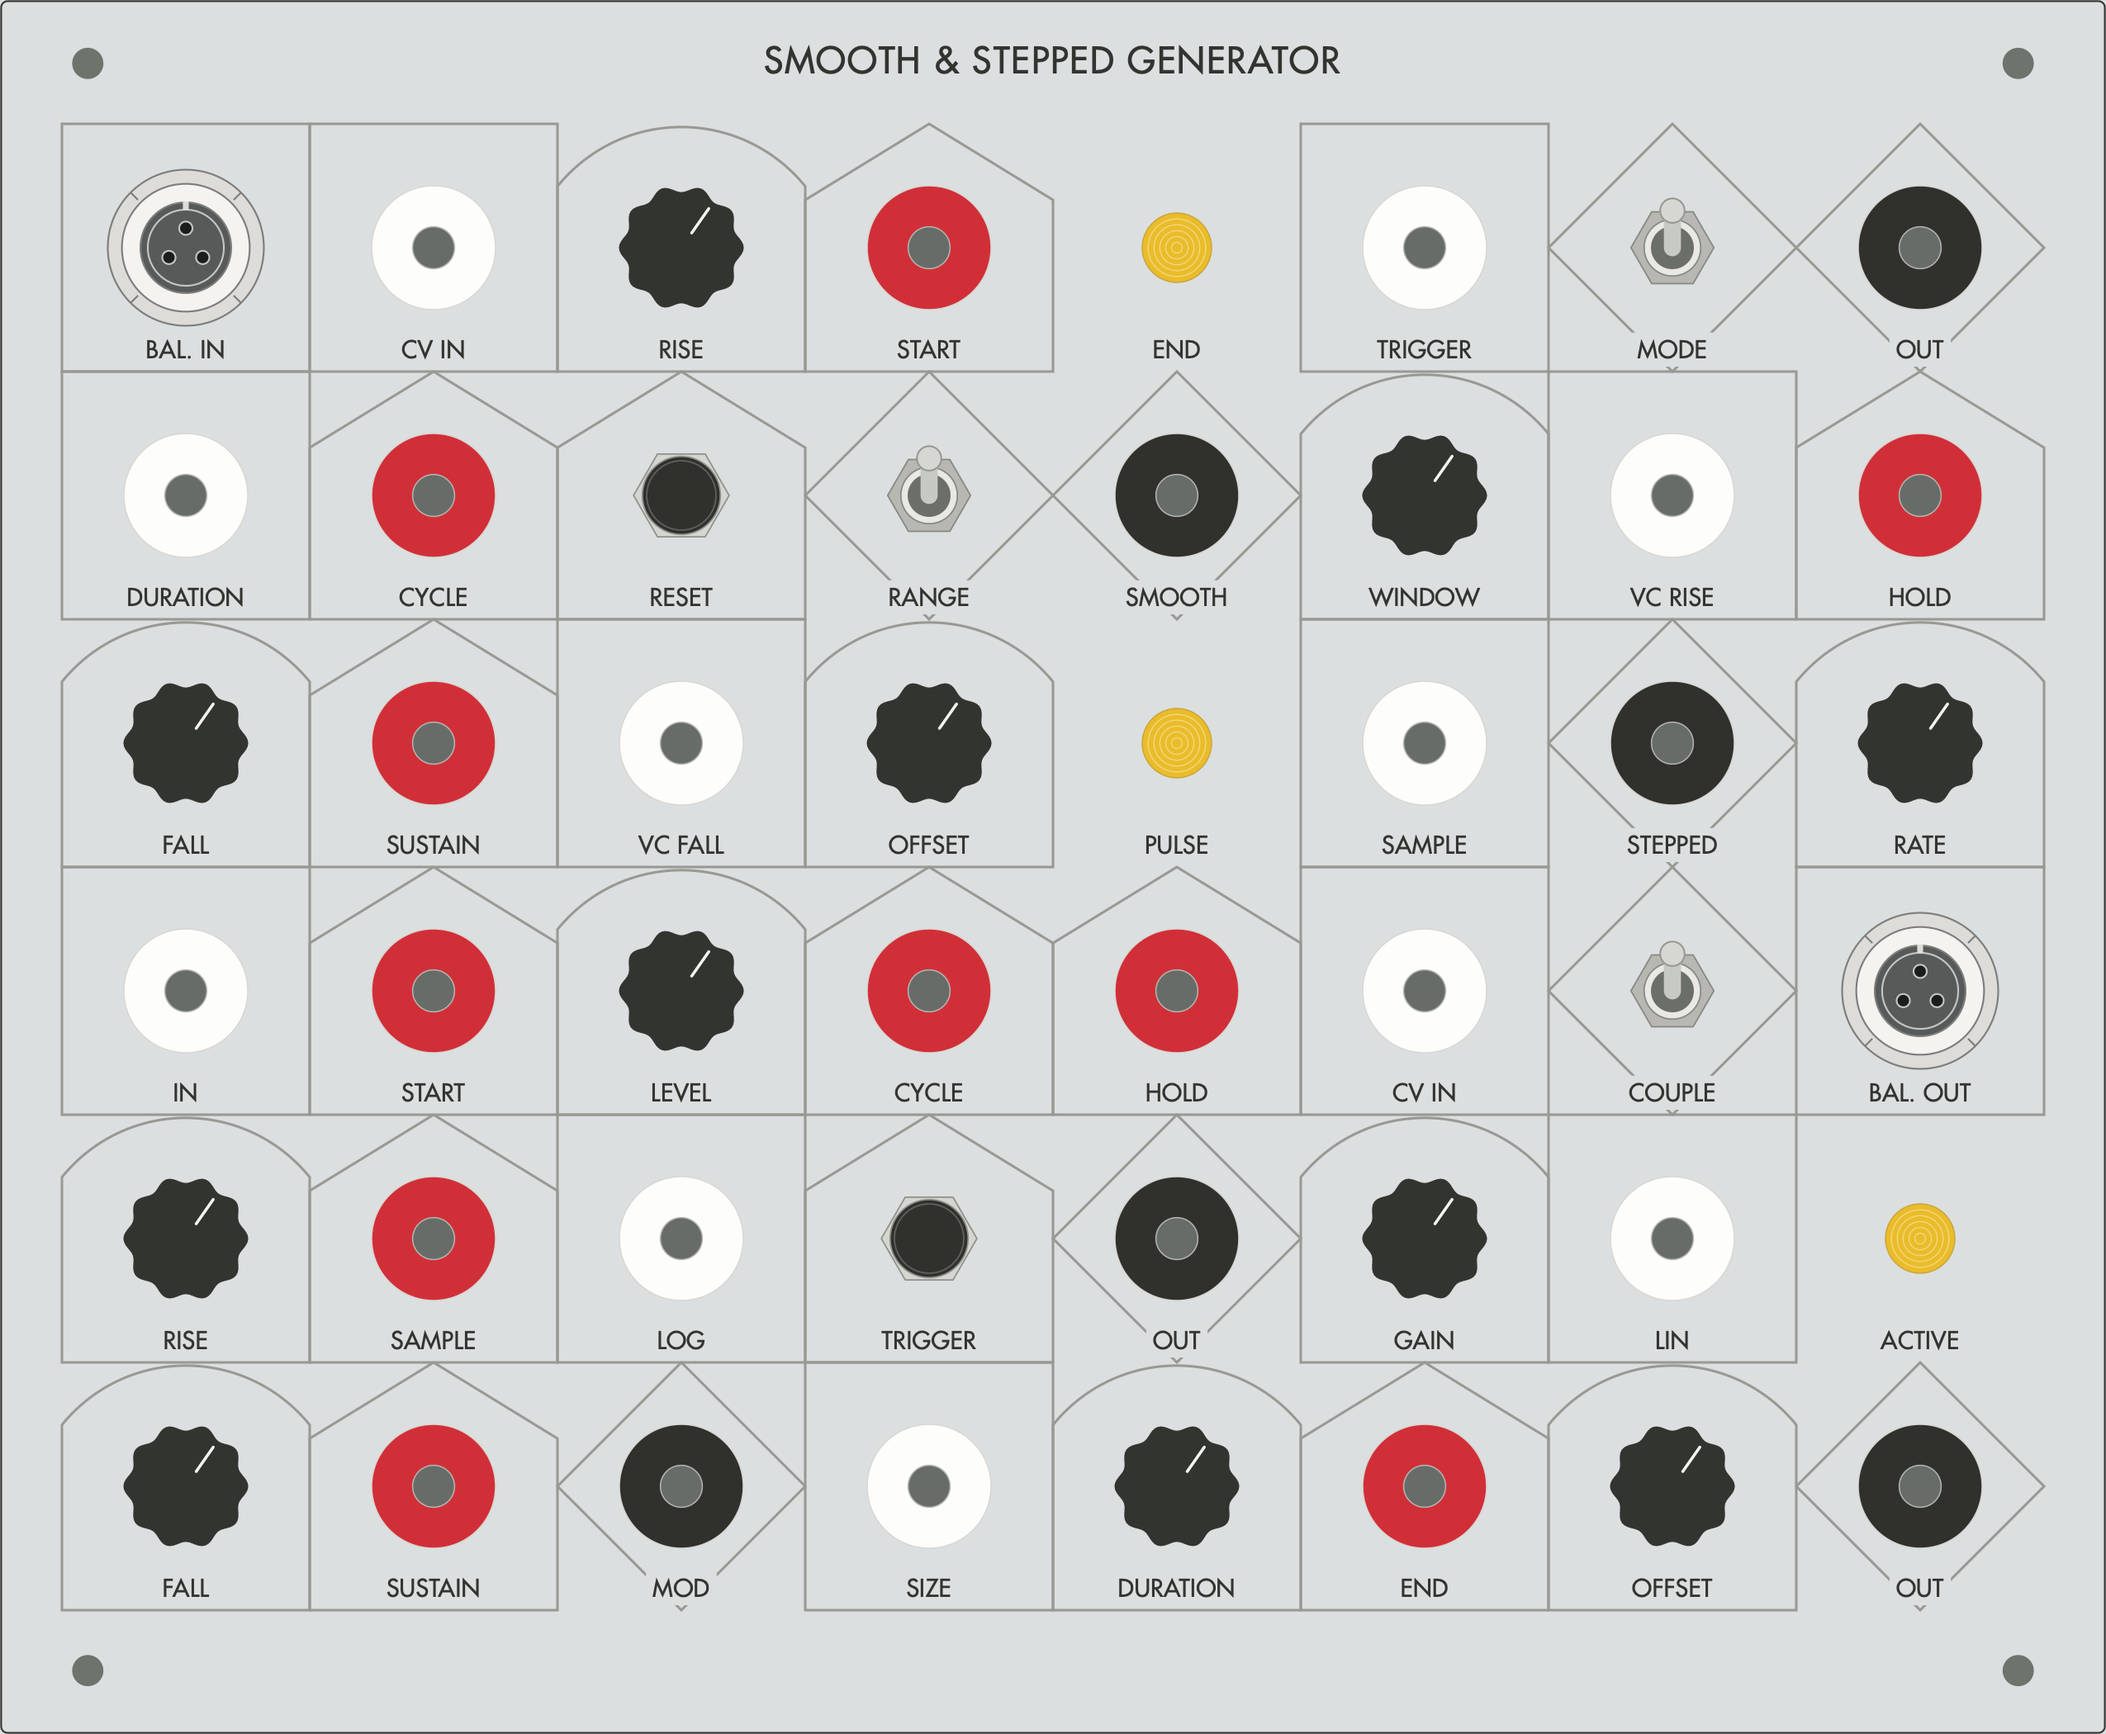
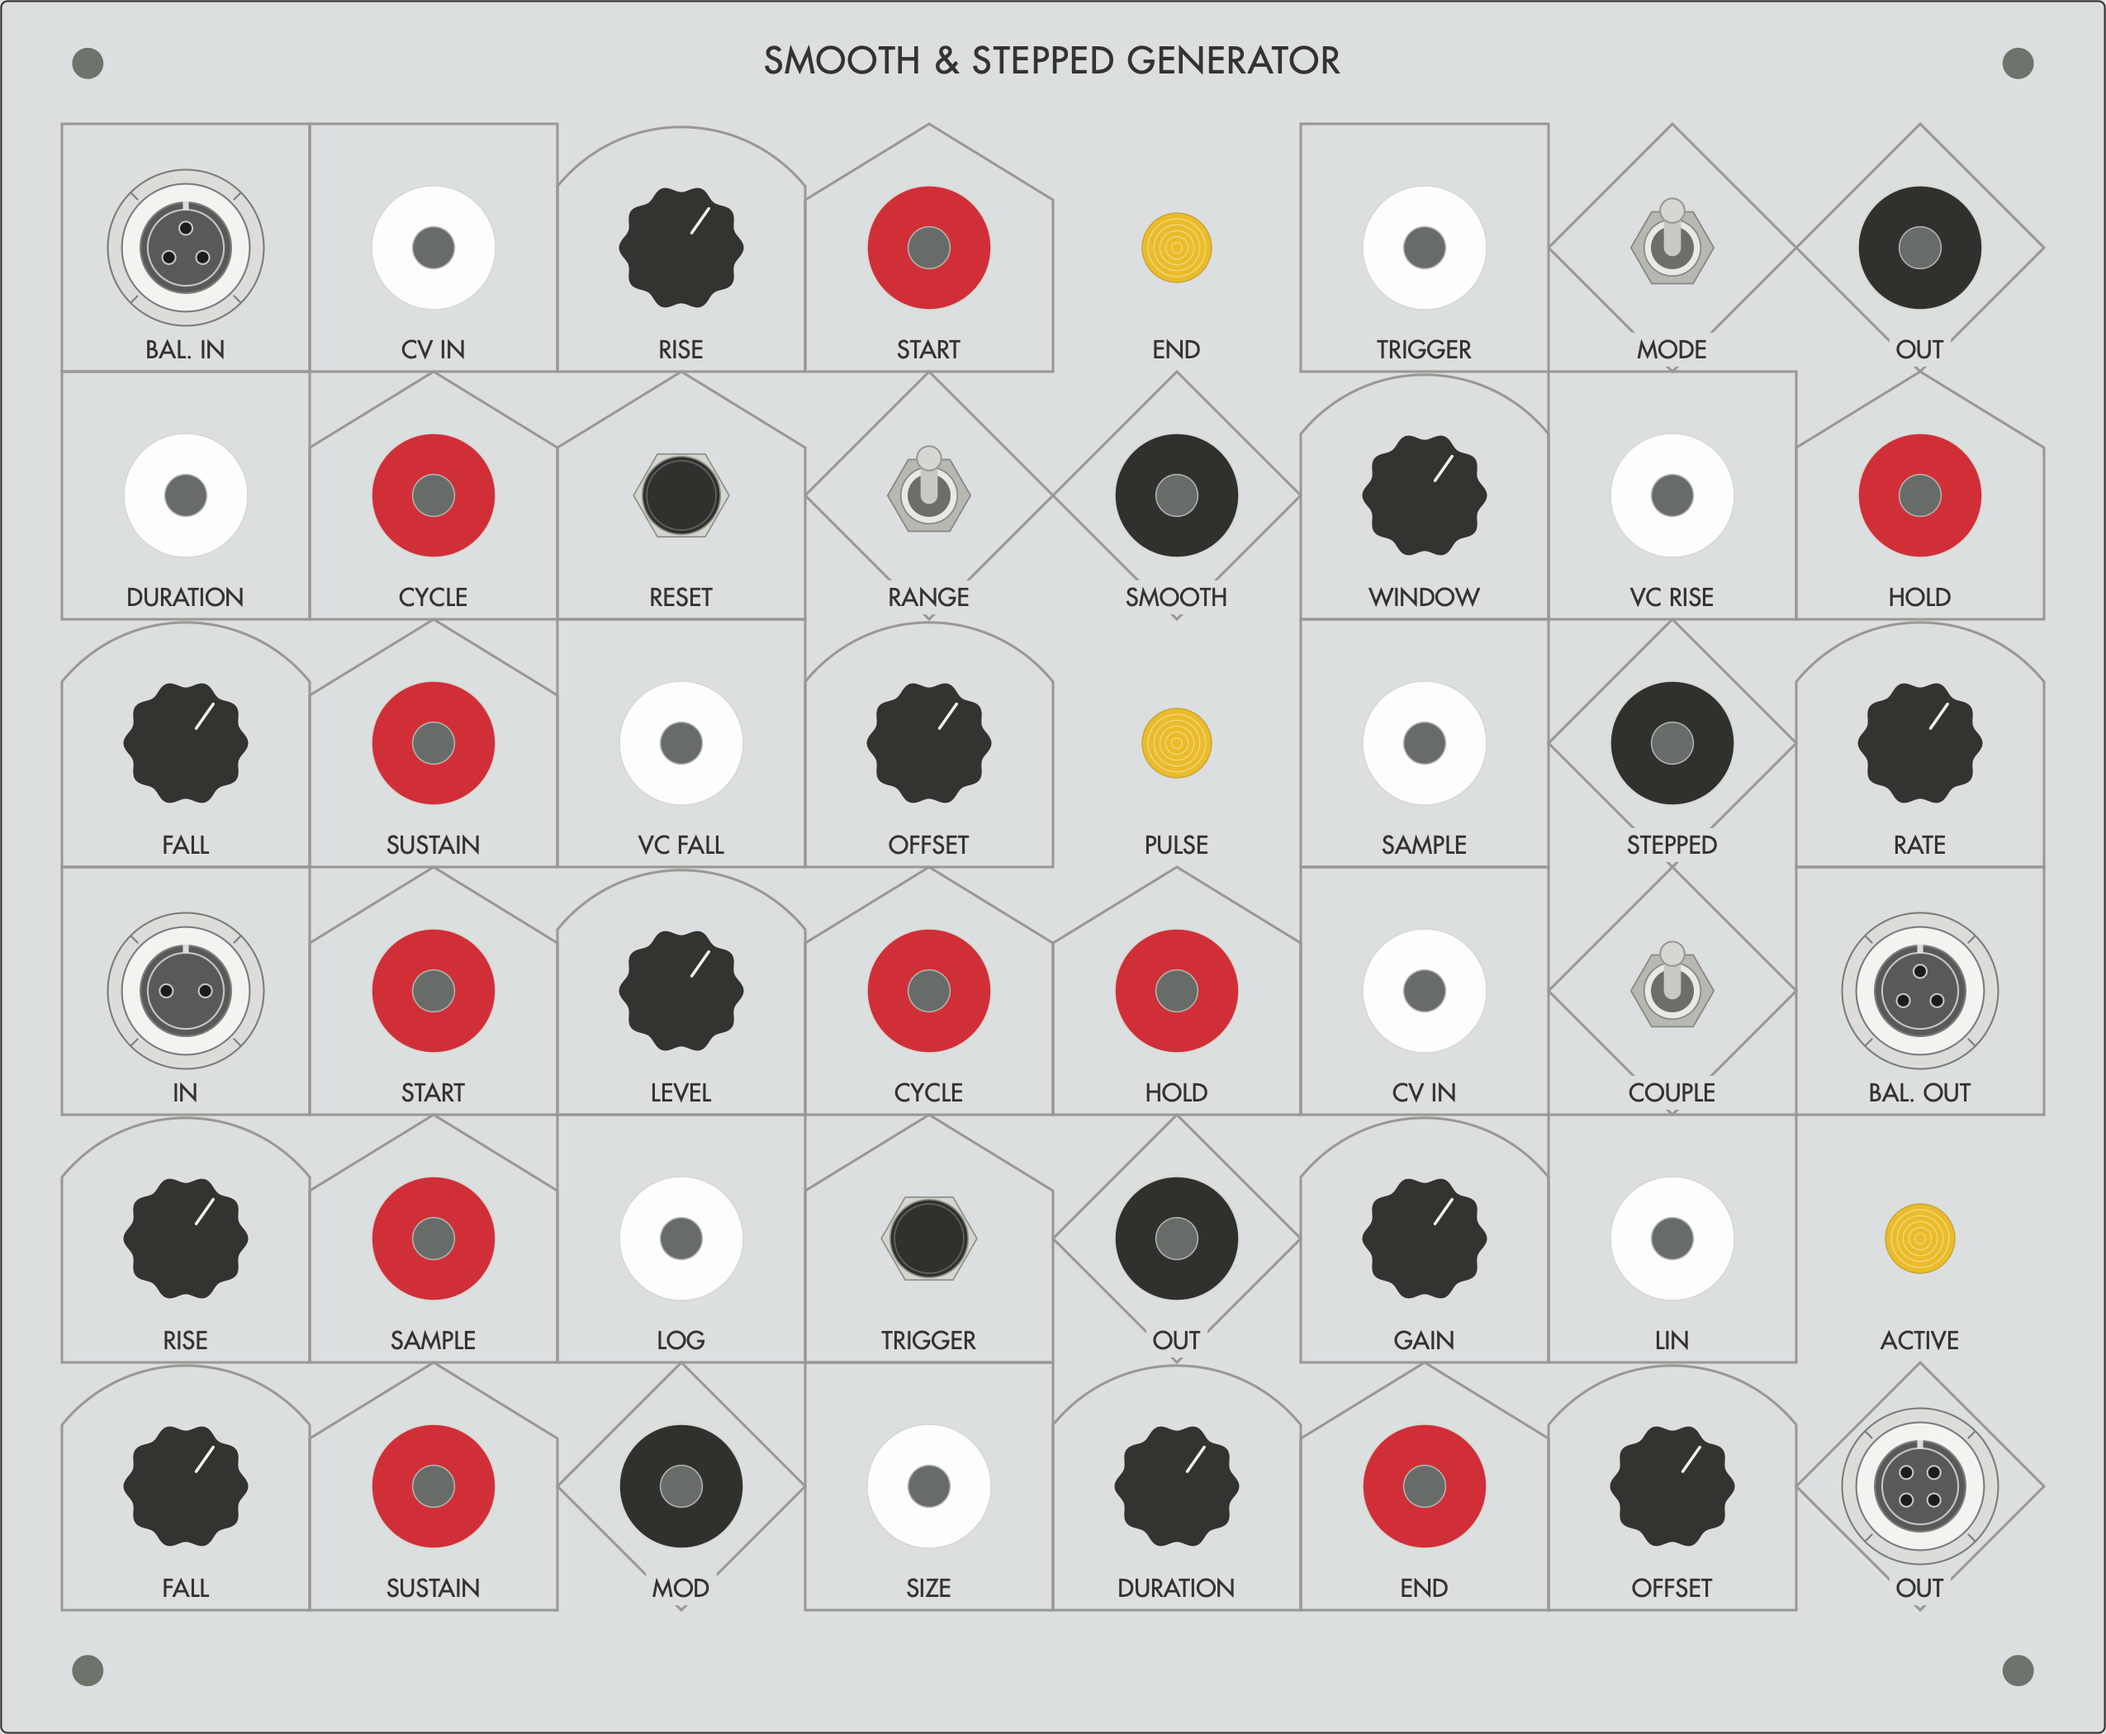
Add lemo 2/4

Changed region(s): [[0.8675, 0.8048, 0.9604, 0.8976], [0.062, 0.5262, 0.1239, 0.619]]

diff --git a/PanelsTests/PanelRenderingTests.swift b/PanelsTests/PanelRenderingTests.swift
@@ -58,7 +58,7 @@ final class PanelRenderingTests: XCTestCase {
         var design = PanelDesign(size: .eightBySix,
                                  title: "A LONG MODULE TITLE WITH MULTIPLE WORDS · ÉTAGE Ω")
         for (index, address) in design.geometry.addresses.enumerated() {
-            design[address].setControl(ControlKind.allCases[index % 6])
+            design[address].setControl(ControlKind.allCases[index % ControlKind.allCases.count])
             design[address].frame = FramePreset.allCases[index % 5]
             design[address].frameRotation = QuarterTurn.allCases[index % 4]
             design[address].caption = index.isMultiple(of: 2) ? "SAMPLE\n& HOLD" : "VERY LONG CONTROL NAME Ω ±"
@@ -93,20 +93,21 @@ final class PanelRenderingTests: XCTestCase {
     }
 
     func testLongCaptionDoesNotCoverTheLEMOSocket() throws {
-        var design = PanelDesign()
-        design.title = ""
-        let address = CellAddress(row: 0, column: 0)
-        design[address].setControl(.lemo1B303)
-        let plain = try PNGExporter.image(design, resolution: .standard)
-        design[address].caption = String(repeating: "LONG CONTROL NAME ", count: 12)
-        let captioned = try PNGExporter.image(design, resolution: .standard)
-        let original = try XCTUnwrap(plain.dataProvider?.data as Data?)
-        let modified = try XCTUnwrap(captioned.dataProvider?.data as Data?)
-        for y in 204..<397 {
-            let start = y * plain.bytesPerRow + 91 * 4
-            let range = start..<(start + 193 * 4)
-            XCTAssertEqual(original.subdata(in: range), modified.subdata(in: range),
-                           "The caption changed hardware pixels at row \(y)")
+        for control in [ControlKind.lemo1B302, .lemo1B303, .lemo1B304] {
+            var design = PanelDesign(title: "")
+            let address = CellAddress(row: 0, column: 0)
+            design[address].setControl(control)
+            let plain = try PNGExporter.image(design, resolution: .standard)
+            design[address].caption = String(repeating: "LONG CONTROL NAME ", count: 12)
+            let captioned = try PNGExporter.image(design, resolution: .standard)
+            let original = try XCTUnwrap(plain.dataProvider?.data as Data?)
+            let modified = try XCTUnwrap(captioned.dataProvider?.data as Data?)
+            for y in 204..<397 {
+                let start = y * plain.bytesPerRow + 91 * 4
+                let range = start..<(start + 193 * 4)
+                XCTAssertEqual(original.subdata(in: range), modified.subdata(in: range),
+                               "The caption changed \(control.partName) pixels at row \(y)")
+            }
         }
     }
 }

diff --git a/Panels/Model/PanelDesign.swift b/Panels/Model/PanelDesign.swift
@@ -15,7 +15,9 @@ enum PanelSize: String, Codable, CaseIterable, Identifiable, Sendable {
 }
 
 enum ControlKind: String, Codable, CaseIterable, Identifiable, Sendable {
+    case lemo1B302
     case lemo1B303
+    case lemo1B304
     case pomona1581
     case nkkMN12
     case nkkMBNF15
@@ -24,9 +26,16 @@ enum ControlKind: String, Codable, CaseIterable, Identifiable, Sendable {
 
     var id: Self { self }
 
+    var isLEMO: Bool {
+        switch self {
+        case .lemo1B302, .lemo1B303, .lemo1B304: true
+        default: false
+        }
+    }
+
     var name: String {
         switch self {
-        case .lemo1B303: "LEMO socket"
+        case .lemo1B302, .lemo1B303, .lemo1B304: "LEMO socket"
         case .pomona1581: "Banana jack"
         case .nkkMN12: "Toggle"
         case .nkkMBNF15: "Button"
@@ -37,7 +46,9 @@ enum ControlKind: String, Codable, CaseIterable, Identifiable, Sendable {
 
     var partName: String {
         switch self {
+        case .lemo1B302: "LEMO.1B.302"
         case .lemo1B303: "LEMO.1B.303"
+        case .lemo1B304: "LEMO.1B.304"
         case .pomona1581: "4 mm · Pomona 1581"
         case .nkkMN12: "SPDT · NKK MN12"
         case .nkkMBNF15: "SPDT · NKK MBNF15"
@@ -51,7 +62,7 @@ enum ControlKind: String, Codable, CaseIterable, Identifiable, Sendable {
         case .pomona1581: [.white, .black, .red, .blue, .green, .yellow, .orange, .brown, .violet, .gray]
         case .nkkMBNF15: [.black, .white, .red, .yellow, .green, .blue]
         case .vccCLB300: [.amber, .red, .green, .blue, .white, .yellow]
-        case .lemo1B303, .nkkMN12, .bourns51: []
+        case .lemo1B302, .lemo1B303, .lemo1B304, .nkkMN12, .bourns51: []
         }
     }
 

diff --git a/Panels/View/PanelInspector.swift b/Panels/View/PanelInspector.swift
@@ -90,8 +90,13 @@ struct PanelInspector: View {
                 .accessibilityLabel("Clear cell")
             }
             LazyVGrid(columns: [GridItem(.flexible()), GridItem(.flexible())], spacing: 8) {
-                ForEach(ControlKind.allCases) { kind in
-                    controlTile(kind, selected: cell.control == kind)
+                ForEach(ControlKind.allCases.filter { !$0.isLEMO || $0 == .lemo1B303 }) { kind in
+                    let displayedKind: ControlKind = if kind.isLEMO, let control = cell.control, control.isLEMO {
+                        control
+                    } else {
+                        kind
+                    }
+                    controlTile(displayedKind, selected: cell.control == displayedKind)
                 }
             }
             HStack(spacing: 5) {
@@ -107,6 +112,16 @@ struct PanelInspector: View {
                         .font(.caption)
                         .help("Remove the control and keep the caption and frame")
                 }
+            }
+            if cell.control?.isLEMO == true {
+                Picker("Pins", selection: editor.cellBinding(\.control,
+                       actionName: "Change LEMO Pin Count")) {
+                    Text("2").tag(Optional(ControlKind.lemo1B302))
+                    Text("3").tag(Optional(ControlKind.lemo1B303))
+                    Text("4").tag(Optional(ControlKind.lemo1B304))
+                }
+                .pickerStyle(.segmented)
+                .accessibilityIdentifier("lemoPinCount")
             }
             VStack(alignment: .leading, spacing: 6) {
                 Text("Control name").font(.subheadline).foregroundStyle(.secondary)

diff --git a/Panels/Rendering/PanelRenderer.swift b/Panels/Rendering/PanelRenderer.swift
@@ -180,7 +180,9 @@ enum PanelRenderer {
         context.setLineCap(.round)
         context.setLineJoin(.round)
         switch control {
-        case .lemo1B303: drawLEMO(in: context)
+        case .lemo1B302: drawLEMO(pinCount: 2, in: context)
+        case .lemo1B303: drawLEMO(pinCount: 3, in: context)
+        case .lemo1B304: drawLEMO(pinCount: 4, in: context)
         case .pomona1581: drawBanana(cell.color, in: context)
         case .nkkMN12: drawToggle(cell.togglePosition, in: context)
         case .nkkMBNF15: drawButton(cell.color, in: context)
@@ -201,7 +203,7 @@ enum PanelRenderer {
         context.drawPath(using: .fillStroke)
     }
 
-    private static func drawLEMO(in context: CGContext) {
+    private static func drawLEMO(pinCount: Int, in context: CGContext) {
         context.setFillColor(PanelInk(0xD6D4D0).cgColor)
         context.setStrokeColor(PanelInk(0x696B69).cgColor)
         context.setLineWidth(0.18)
@@ -222,8 +224,13 @@ enum PanelRenderer {
         context.setStrokeColor(PanelInk(0xB8BAB5).cgColor)
         circle(in: context, radius: 3.9)
         context.strokePath()
-        for i in 0..<3 {
-            let angle = Double(i) * .pi * 2 / 3 - .pi / 2
+        let phase: Double = switch pinCount {
+        case 2: 0
+        case 4: .pi / 4
+        default: -.pi / 2
+        }
+        for i in 0..<pinCount {
+            let angle = Double(i) * .pi * 2 / Double(pinCount) + phase
             context.setFillColor(PanelInk(0x141615).cgColor)
             circle(in: context, center: CGPoint(x: cos(angle) * 2, y: sin(angle) * 2), radius: 0.68)
             context.drawPath(using: .fillStroke)

diff --git a/PanelsTests/PanelEditorTests.swift b/PanelsTests/PanelEditorTests.swift
@@ -140,6 +140,35 @@ final class PanelEditorTests: XCTestCase {
     }
 
     @MainActor
+    func testLEMOPinCountChangesPreserveCellSettingsAndSupportUndoRedo() async {
+        let holder = DesignHolder()
+        let editor = holder.editor
+        let undo = holder.undo
+        let address = CellAddress(row: 0, column: 0)
+        editor.state.selection = address
+        editor.setControl(.lemo1B303)
+        editor.editCell("Style Cell") {
+            $0.caption = "BAL. OUT"
+            $0.frame = .diamond
+            $0.frameRotation = .one
+        }
+        let pins = editor.cellBinding(\.control, actionName: "Change LEMO Pin Count")
+        for control in [ControlKind.lemo1B302, .lemo1B304, .lemo1B303] {
+            let original = holder.design[address]
+            var expected = original
+            expected.control = control
+            pins.wrappedValue = control
+            XCTAssertEqual(holder.design[address], expected)
+            XCTAssertTrue(control.isLEMO)
+            XCTAssertEqual(undo.undoActionName, "Change LEMO Pin Count")
+            undo.undo()
+            XCTAssertEqual(holder.design[address], original)
+            undo.redo()
+            XCTAssertEqual(holder.design[address], expected)
+        }
+    }
+
+    @MainActor
     func testResizeRetainsCellsAndSupportsUndoRedo() async {
         let holder = DesignHolder()
         let editor = holder.editor

diff --git a/Panels/View/EditorView.swift b/Panels/View/EditorView.swift
@@ -12,7 +12,7 @@ struct EditorView: View {
     var body: some View {
         NavigationSplitView {
             PanelInspector(design: $design, state: $state, editor: editor)
-                .navigationSplitViewColumnWidth(min: 290, ideal: 310, max: 340)
+                .navigationSplitViewColumnWidth(min: 270, ideal: 330, max: 390)
         } detail: {
             VStack(spacing: 0) {
                 PanelCanvas(design: design, state: $state, editor: editor)

diff --git a/PanelsTests/PanelModelTests.swift b/PanelsTests/PanelModelTests.swift
@@ -84,6 +84,9 @@ final class PanelModelTests: XCTestCase {
 
     func testDocumentRoundTripIncludesHiddenCellsAndUnicode() throws {
         var design = PanelDesign()
+        for (index, control) in ControlKind.allCases.enumerated() {
+            design.cells[index].setControl(control)
+        }
         design.title = "SLOPE & ÉTAGE"
         let hidden = CellAddress(row: 5, column: 7)
         design[hidden].setControl(.vccCLB300)

diff --git a/README.md b/README.md
@@ -10,7 +10,7 @@ Choose a **4 × 6** grid on a **4.25″ × 7″** panel or an **8 × 6** grid on
 
 Click a cell and choose its control in the left sidebar:
 
-- LEMO.1B.303 socket
+- LEMO socket, with a pin-count picker for 2-pin (1B.302), 3-pin (1B.303), or 4-pin (1B.304) versions
 - 4 mm Pomona 1581 banana jack
 - SPDT NKK MN12 toggle
 - SPDT NKK MBNF15 button
